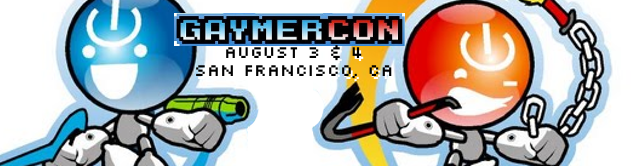
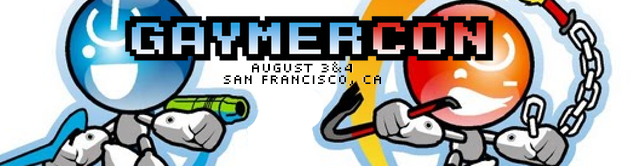
Home page changes

Changed region(s): [[0.1787, 0.0602, 0.7743, 0.512]]

diff --git a/app/assets/stylesheets/full_control/gaymercon.less b/app/assets/stylesheets/full_control/gaymercon.less
@@ -114,12 +114,13 @@ i.circle.active { background-color: @linkColor; }
 .serif { font-family: @serifFontFamily !important; }
 .sans { font-family: @sansFontFamily !important; }
 .mono { font-family: @monoFontFamily !important; }
+.chunk { font-family: @highlightFontFamily !important; }
 
 // LAYOUT
 // -----------------------------------------------------
 body { }
 
-body > .container { background: #fff; min-height: 600px; }
+body > .container { background: #fff; }
 
 .global-header {
   min-height: 200px;
